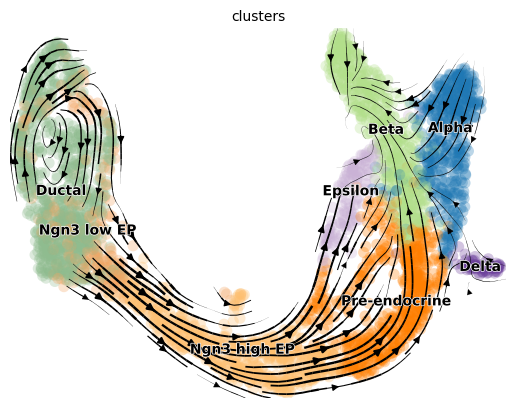
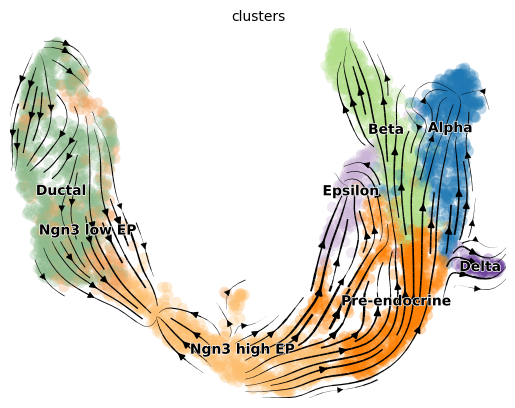
Latest versions of the plots

Changed region(s): [[0.0, 0.0588, 0.9942, 0.9706]]

diff --git a/code/yuhong/greenleaf/utv_15nGPCblk_plots.py b/code/yuhong/greenleaf/utv_15nGPCblk_plots.py
@@ -1,0 +1,78 @@
+dataset_long = 'greenleaf'
+dataset_short = 'glf'
+gene_set_name_prefix = 'nGPCblk'
+
+import scvelo as scv
+import scanpy as sc
+from scipy.sparse import csr_matrix
+import pandas as pd
+import numpy as np
+
+import sys
[1 lines of base64/hex data omitted]
+from v4_functions_scv import *
+from v4_functions import *
+
+
+def create_plots(velo_method, split_seed, grid_seed):
+    gene_set_name = gene_set_name_prefix+str(grid_seed)
+    method = velo_method+'_'+gene_set_name
+    data_folder = '/home/users/y2564li/kzlinlab/projects/veloUncertainty/out/yuhong/data/v4_greenleaf/'
+    ## read data
+    total = sc.read(data_folder+'seed'+str(split_seed)+'/'+method+'/adata_glf_'+method+'_total_v4.h5ad')
+    split1 = sc.read(data_folder+'seed'+str(split_seed)+'/'+method+'/adata_'+dataset_short+'_'+method+'_split1_v4.h5ad')
+    split2 = sc.read(data_folder+'seed'+str(split_seed)+'/'+method+'/adata_'+dataset_short+'_'+method+'_split2_v4.h5ad')
+    total.obsm['X_umapOriginal'] = total.obsm['X_umap_greenleaf'].copy()
+    ## compute UMAP
+    compute_umap(total,dataset_short)
+    compute_umap(split1,dataset_short)
+    compute_umap(split2,dataset_short)
+    fig_folder = '/home/users/y2564li/kzlinlab/projects/veloUncertainty/git/veloUncertainty/fig/yuhong/v4_'+dataset_long+'/seed'+str(split_seed)+'/'+method+'/'
+    ## velocity
+    plot_velocity_scv_utv(adata_in=total,fig_folder=fig_folder,data_version='total',dataset=dataset_short,method=method,split_seed=split_seed)
+    plot_velocity_scv_utv(adata_in=split1,fig_folder=fig_folder,data_version='split1',dataset=dataset_short,method=method,split_seed=split_seed)
+    plot_velocity_scv_utv(adata_in=split2,fig_folder=fig_folder,data_version='split2',dataset=dataset_short,method=method,split_seed=split_seed)
+    ## cosine similarity
+    plot_cosine_similarity(adata_split1=split1,adata_split2=split2,adata_total=total,dataset=dataset_short,method=method,fig_folder=fig_folder,split_seed=split_seed)
+    plot_cosine_similarity_withRef(split1,split2,total,dataset_short,method,fig_folder,split_seed)
+    plot_cosine_similarity_hist_by_celltype(adata_split1=split1,adata_split2=split2,adata_total=total,dataset=dataset_short,method=method,fig_folder=fig_folder,split_seed=split_seed)
+    plot_cosine_similarity_boxplot_by_celltype(adata_split1=split1,adata_split2=split2,adata_total=total,dataset=dataset_short,method=method,fig_folder=fig_folder,split_seed=split_seed)
+    print('cosine similarity using gene intersection and union')
+    c1,n1 = compute_cosine_similarity_intersect(split1,split2,method)
+    c2,n2 = compute_cosine_similarity_union(split1,split2,method)
+    print(np.quantile(c1, [0.,.25,.5,.75,1.]) )
+    print(np.quantile(c2, [0.,.25,.5,.75,1.]) )
+    ## confidence
+    if (not 'velocity_confidence' in split1.obs.columns):
+        scv.tl.velocity_confidence(total)
+        scv.tl.velocity_confidence(split1)
+        scv.tl.velocity_confidence(split2)
+    plot_veloConf_and_cosSim(adata_total=total,adata_split1=split1,adata_split2=split2,dataset=dataset_short,method=method,fig_folder=fig_folder, split_seed=split_seed)
+    plot_veloConf_hist(total,dataset_short,method,fig_folder,split_seed)
+    plot_velo_conf_boxplot_by_celltype(total,dataset_short,method,fig_folder,split_seed)
+    print('shuffled cosine similarity')
+    # shuffled cosine similarity
+    v2s_mean,v2s_median = compute_cosine_similarity_shuffled(split1,split2,method=method,seed=1508)
+    print('shuffled mean of mean and median: ')
+    ( np.round(np.mean(v2s_mean),4) , np.round(np.mean(v2s_median),4) )
+
+
+create_plots(velo_method='utv',split_seed=317, grid_seed=227)
+print('################# plots of 317 done')
+
+create_plots(velo_method='utv',split_seed=320, grid_seed=230)
+print('################# plots of 320 done')
+
+create_plots(velo_method='utv',split_seed=323, grid_seed=233)
+print('################# plots of 323 done')
+
+create_plots(velo_method='utv',split_seed=326, grid_seed=236)
+print('################# plots of 326 done')
+
+create_plots(velo_method='utv',split_seed=329, grid_seed=239)
+print('################# plots of 329 done')
+
+
+
+print('################# all done')
+

diff --git a/code/yuhong/greenleaf/sct_15nGPCblk_plots.py b/code/yuhong/greenleaf/sct_15nGPCblk_plots.py
@@ -26,7 +26,7 @@ def sct_add_output(adata, tnode, timesteps):
     adata.layers['velocity'] = compute_sct_avg_velocity(tnode, timesteps)
     get_umap_sct(adata)
 
-def sct_create_plots(split_seed, grid_seed, sct_seed=615):
+def sct_add_velo(split_seed, grid_seed, sct_seed=615):
     gene_set_name = gene_set_prefix+str(grid_seed)
     method = 'sct_'+gene_set_name
     data_folder = '/home/users/y2564li/kzlinlab/projects/veloUncertainty/out/yuhong/data/v4_'+dataset_long+'/seed'+str(split_seed)+'/'+method+'/'
@@ -51,6 +51,19 @@ def sct_create_plots(split_seed, grid_seed, sct_seed=615):
     total.write(data_folder+adata_prefix+'_total_v4_outputAdded.h5ad') # 
     split1.write(data_folder+adata_prefix+'_split1_v4_outputAdded.h5ad') # 
     split2.write(data_folder+adata_prefix+'_split2_v4_outputAdded.h5ad') # 
+
+def sct_create_plots(split_seed, grid_seed, sct_seed=615):
+    gene_set_name = gene_set_prefix+str(grid_seed)
+    method = 'sct_'+gene_set_name
+    data_folder = '/home/users/y2564li/kzlinlab/projects/veloUncertainty/out/yuhong/data/v4_'+dataset_long+'/seed'+str(split_seed)+'/'+method+'/'
+    fig_folder = '/home/users/y2564li/kzlinlab/projects/veloUncertainty/git/veloUncertainty/fig/yuhong/v4_'+dataset_long+'/seed'+str(split_seed)+"/"+method+"/"
+    adata_prefix = 'adata_'+dataset_short+'_'+method
+    tnode_prefix = 'tnode_'+dataset_short+'_'+method
+    print('############# read data')
+    total = sc.read_h5ad(data_folder+'adata_'+dataset_short+'_'+method+'_'+'total'+'_v4_outputAdded.h5ad') # 
+    total.obsm['X_umapOriginal'] = total.obsm['X_umap_greenleaf']
+    split1 = sc.read_h5ad(data_folder+'adata_'+dataset_short+'_'+method+'_'+'split1'+'_v4_outputAdded.h5ad') # 
+    split2 = sc.read_h5ad(data_folder+'adata_'+dataset_short+'_'+method+'_'+'split2'+'_v4_outputAdded.h5ad') # 
     print('############# vector field')
     plot_vf_umap(adata_in=split1, data_version="split1",data=dataset_short,method=method,fig_folder=fig_folder)
     plot_vf_umap(adata_in=split2, data_version="split2",data=dataset_short,method=method,fig_folder=fig_folder)
@@ -81,11 +94,19 @@ def sct_create_plots(split_seed, grid_seed, sct_seed=615):
     sct_create_plots(split_seed=split_seed, grid_seed=grid_seed)
     print('################## seed'+str(split_seed)+' done')
 """
-
+"""
 for i in range(4):
     split_seed = [320,323,326,329][i]
     grid_seed = [230,233,236,239][i]
+    sct_add_velo(split_seed=split_seed, grid_seed=grid_seed)
+    print('################## seed'+str(split_seed)+' done')
+"""
+
+for i in range(5):
+    split_seed = [317,320,323,326,329][i]
+    grid_seed = [227,230,233,236,239][i]
     sct_create_plots(split_seed=split_seed, grid_seed=grid_seed)
     print('################## seed'+str(split_seed)+' done')
+
 
 print('################# all done')

diff --git a/code/yuhong/larryMult/v4/seed_multiple/allMethods_cos_sim_rm_mean.py b/code/yuhong/larryMult/v4/seed_multiple/allMethods_cos_sim_rm_mean.py
@@ -172,3 +172,5 @@ def plot_cos_sim_rm_mean_allMethods(dataset,split_seed,methods=['scv','utv','sct
 plot_cos_sim_rm_mean_allMethods(dataset='panINC',split_seed=317)
 
 plot_cos_sim_rm_mean_allMethods(dataset='pan',split_seed=317)
+
+plot_cos_sim_rm_mean_allMethods(dataset='ery',split_seed=317)
